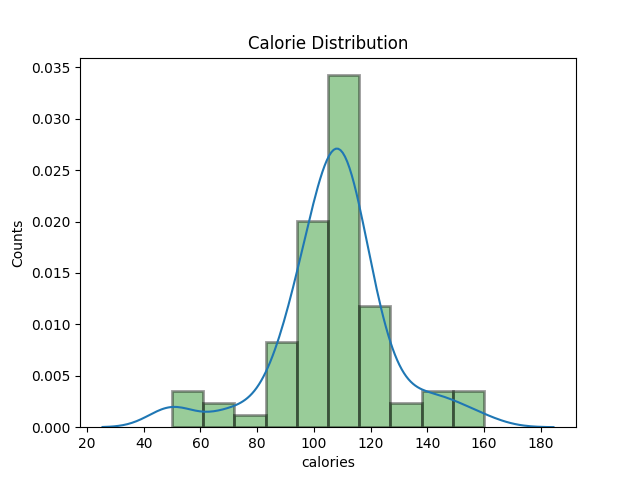
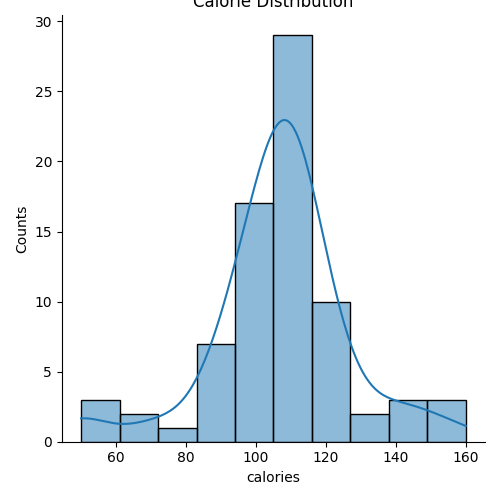
projectTwo

Changed region(s): [[0.0, 0.0625, 0.96, 1.0], [0.39, 0.0, 0.69, 0.0312], [0.06, 0.0312, 0.12, 0.0625]]

diff --git a/projectTwo/projectTwo.py b/projectTwo/projectTwo.py
@@ -1,5 +1,7 @@
+from os import name
 import pandas as pd
 import numpy as np
+from pandas.core.frame import DataFrame
 import seaborn as sns
 import matplotlib.pyplot as plt
 
@@ -54,10 +56,10 @@ plt.show()
 cps = df.loc[:,'calories']
 cps = cps.reset_index().melt(id_vars='index')
 
-#plot with kind= count 
-sns.distplot(
+#plot with the distribution line 
+sns.displot(
     df['calories'],
-    hist_kws={'color':'green', 'edgecolor' : 'black', 'linewidth':2},
+    kde=True,
     bins=10
     
 )
@@ -69,3 +71,20 @@ plt.title('Calorie Distribution')
 plt.savefig('calories.png')
 plt.show()
 
+#boxplot  calories per manufactor
+cb = pd.DataFrame(df.loc[:,['calories','name','mfr']])
+cb = cb.reset_index().melt(id_vars='index')
+# sns.boxplot(cb,
+# x=cb['name'],
+# y=cb['calories'],
+# hue=cb['mfr'])
+# plt.show()
+sns.set(rc={"figure.figsize":(20, 15)}) 
+sns.boxplot(x=df['name'],
+y=df['calories'],
+hue=df['mfr'],
+whis=1.5,
+fliersize=10)
+plt.xticks(rotation=-45)
+plt.savefig('mfr calories.png')
+plt.show()
